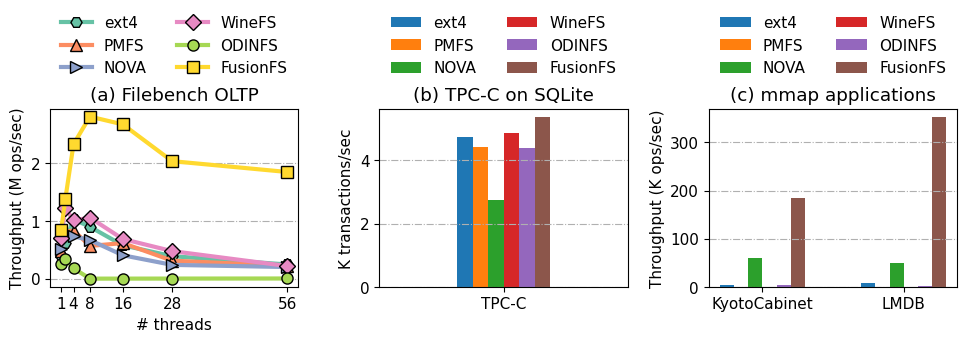
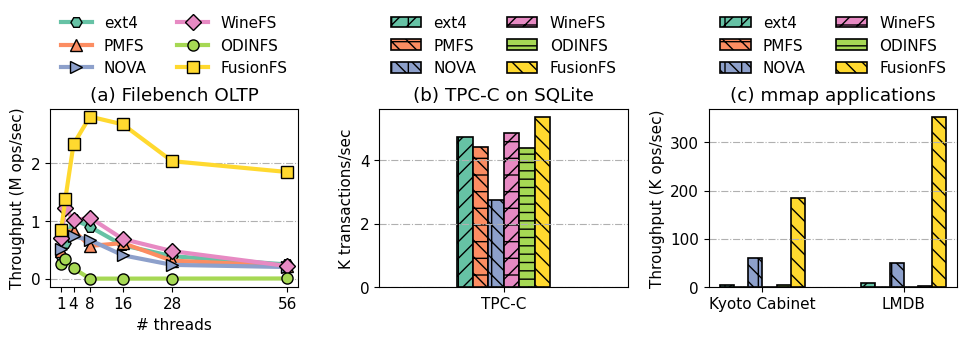
Update figure style

diff --git a/eval/fig/breakdown.py b/eval/fig/breakdown.py
@@ -1,4 +1,12 @@
 import matplotlib.pyplot as plt
+import numpy as np
+
+hat = ['|//','-\\\\','|\\\\','-//',"--","\\\\",'//',"xx"]
+markers = ['H', '^', '>', 'D', 'o', 's', 'p', 'x']
+c = np.array([[102, 194, 165], [252, 141, 98], [141, 160, 203], 
+        [231, 138, 195], [166,216,84], [255, 217, 47],
+        [229, 196, 148], [179, 179, 179]])
+c  = c/255
 
 # Define the log file names in the desired order
 log_files = {
@@ -43,21 +51,23 @@ fig, (ax1, ax2) = plt.subplots(1, 2, figsize=(8, 3), layout="constrained")
 # Plot the first subplot
 width = 0.35  # width of the bars
 x = range(len(x_values))
-ax1.bar(x, [val/1024/1024 for val in y_values_1_uniform], width, label="Uniform")
-# ax1.bar([i + width for i in x], [val/1000000 for val in y_values_1_zipf], width, label="Zipf", alpha=0.5)
+ax1.bar(x, [val/1024/1024 for val in y_values_1_uniform], width, label="uniform", color=c[0], edgecolor='black', lw=1.2, hatch=hat[0])
+# ax1.bar([i + width for i in x], [val/1000000 for val in y_values_1_zipf], width, label="zipf", alpha=0.5)
 ax1.set_ylabel("Throughput (GiB/s)")
 # ax1.set_xticks([i + width/2 for i in x])
 ax1.set_xticks(x)
 ax1.set_xticklabels(x_values, rotation=45, ha="right")
 # ax1.legend()
+ax1.grid(axis='y', linestyle='-.')
 
 # Plot the second subplot
-ax2.bar(x, [val/1024 for val in y_values_2_uniform], width, label="Uniform")
-# ax2.bar([i + width for i in x], [val/1024 for val in y_values_2_zipf], width, label="Zipf", alpha=0.5)
+ax2.bar(x, [val/1024 for val in y_values_2_uniform], width, label="uniform", color=c[0], edgecolor='black', lw=1.2, hatch=hat[0])
+# ax2.bar([i + width for i in x], [val/1024 for val in y_values_2_zipf], width, label="zipf", alpha=0.5)
 ax2.set_ylabel("PM Writes (GB)")
 # ax2.set_xticks([i + width/2 for i in x])
 ax2.set_xticks(x)
 ax2.set_xticklabels(x_values, rotation=45, ha="right")
+ax2.grid(axis='y', linestyle='-.')
 
-plt.savefig("breakdown.png")
-plt.savefig("breakdown.pdf")
+plt.savefig("breakdown.png", bbox_inches='tight')
+plt.savefig("breakdown.pdf", bbox_inches='tight')

diff --git a/eval/fig/application.py b/eval/fig/application.py
@@ -38,6 +38,7 @@ labels = {
     "FusionFS": "FusionFS"
 }
 
+hat = ['|//','-\\\\','|\\\\','-//',"--","\\\\",'//',"xx"]
 markers = ['H', '^', '>', 'D', 'o', 's', 'p', 'x']
 
 i = 0
@@ -107,7 +108,7 @@ other_performances = []
 
 for i, fs in enumerate(order):
     performance = tpcc_performance[i] / 1000
-    ax2.bar(x1 + i * width1 - (len(order) / 2 - 0.5) * width1, [performance], width1, label=labels[fs])
+    ax2.bar(x1 + i * width1 - (len(order) / 2 - 0.5) * width1, [performance], width1, label=labels[fs], color=c[i], edgecolor='black', lw=1.2, hatch=hat[i])
     if labels[fs] == 'FusionFS':
         fusionfs_performance = performance
     else:
@@ -141,13 +142,13 @@ x2 = np.arange(2)  # x 轴的位置，2个负载
 width2 = 0.1  # 柱状图的宽度
 
 for i, fs in enumerate(order):
-    ax3.bar(x2 + i * width2 - (len(order) / 2 - 0.5) * width2, [kyoto_performance[i] / 1000, lmdb_performance[i] / 1000], width2, label=labels[fs])
+    ax3.bar(x2 + i * width2 - (len(order) / 2 - 0.5) * width2, [kyoto_performance[i] / 1000, lmdb_performance[i] / 1000], width2, label=labels[fs], color=c[i], edgecolor='black', lw=1.2, hatch=hat[i])
 
 # ax3.set_xlabel('Workload')
 ax3.set_ylabel('Throughput (K ops/sec)')
 ax3.set_title('(c) mmap applications')
 ax3.set_xticks(x2)
-ax3.set_xticklabels(['KyotoCabinet', 'LMDB'])
+ax3.set_xticklabels(['Kyoto Cabinet', 'LMDB'])
 ax3.grid(axis='y', linestyle='-.')
 # ax3.legend(title='File System')
 ax3.legend(loc='upper center', bbox_to_anchor=(0.5, 1.6), ncol=2, frameon=False)
